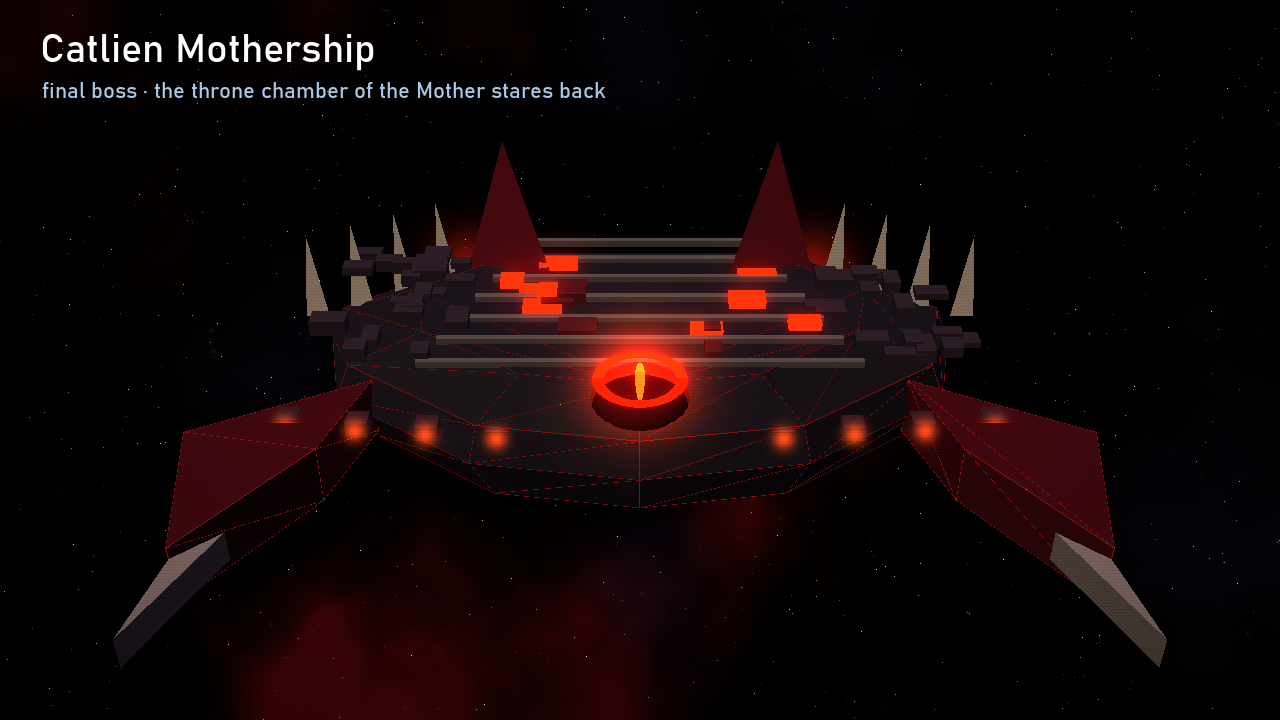
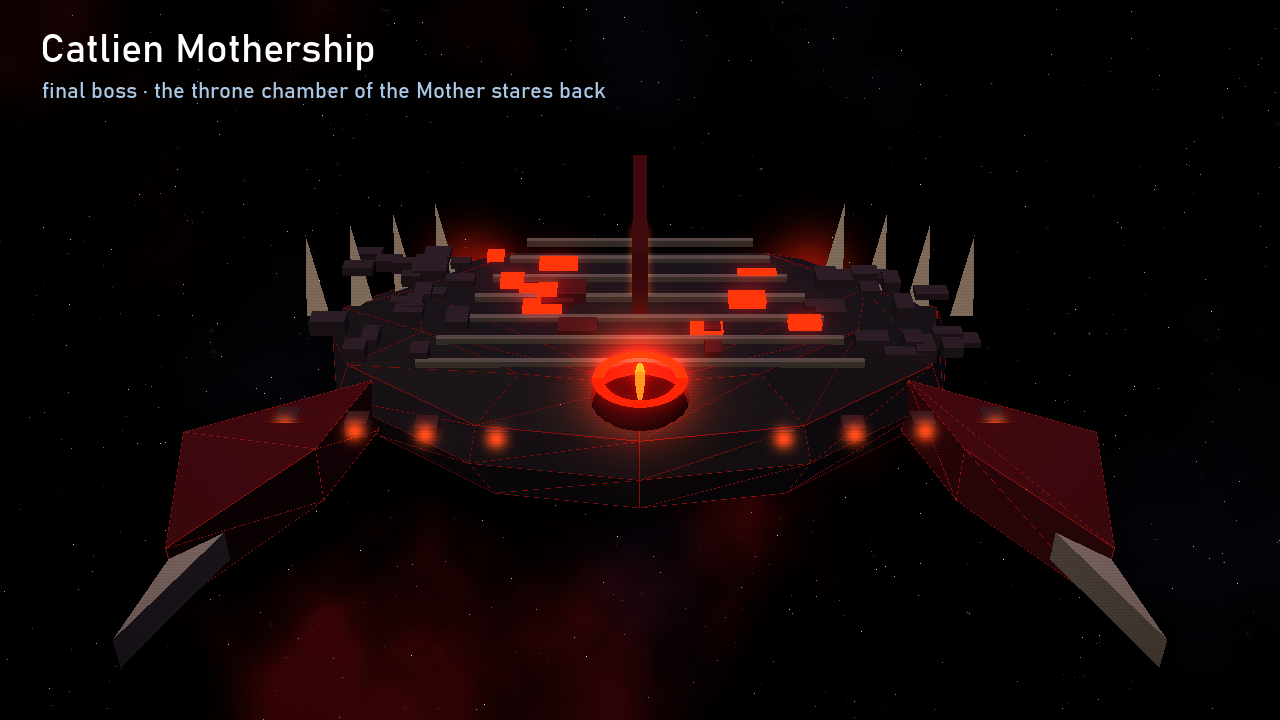
Refinement part 2

Changed region(s): [[0.4688, 0.2139, 0.5312, 0.4278], [0.5625, 0.2139, 0.6562, 0.3972], [0.3438, 0.2139, 0.4375, 0.3972]]

diff --git a/concept/web/index.html b/concept/web/index.html
@@ -84,7 +84,7 @@ svg text { font-family: var(--f-mono); }
 
 <div class="wrap">
 <header>
-  <div class="eyebrow">Concept · revision 2 · 2 November 2026 · before implementation</div>
+  <div class="eyebrow">Concept · revision 3 (final) · 2 November 2026 · ready for implementation</div>
   <h1>f<span class="ai">AI</span>ceCommander<span class="d3">3D</span></h1>
   <p class="lede">The face-gesture space shooter, rebuilt as a Python desktop game: real-time 3D in a grim retro low-poly style, seven levels to the Catlien mothership, adaptive drum &amp; bass, and a life-support helmet with an exposed brain laid over your webcam image.</p>
   <figure>
@@ -92,14 +92,16 @@ svg text { font-family: var(--f-mono); }
     <figcaption>In-game mockup, level 1. The 3D scene is real Panda3D output of the procedural models; HUD and webcam panel were composited for the mockup (webcam crop taken from your old screenshot).</figcaption>
   </figure>
   <div class="changes col">
-    <strong>Changed in this revision</strong>
+    <strong>Changed in revision 3</strong>
     <ul>
-      <li>Everything in English: game texts, voice, code and documentation.</li>
-      <li>The ship is now a boxy salvage gunship modelled on the 2D sprite, not a jet.</li>
-      <li>Catliens redesigned: dark, biomechanical warships with only a hint of a cat. The whole look is a notch creepier.</li>
-      <li>Standard laser fires one pulse per mouth opening.</li>
-      <li>Your answers are built in: constant thrust, Easy/Hard modes, outro plus endless mode, gory brain bursts, fullscreen.</li>
-      <li>One source file per level.</li>
+      <li>The ship has more detail: coolant hoses, a glowing life-support tank wired into the brain dome, an electronics rack with an LED matrix, radiator fins, cable bundles, a radar dish and antennas.</li>
+      <li>Catliens are less cat-like: no more ear-like fins or spires. The only hint left is the slanted slit sensors, and on the mothership the slit-pupil eye.</li>
+      <li>The webcam helmet now puts sunglasses over your eyes and a glowing cigar in the corner of your mouth.</li>
+      <li>All remaining questions are settled (see the end of the page).</li>
+    </ul>
+    <strong>Revision 2</strong>
+    <ul>
+      <li>Everything in English, a boxy ship modelled on the 2D sprite, darker Catliens, one laser pulse per mouth opening, Easy/Hard modes, outro plus endless mode, gory brain bursts, fullscreen, one source file per level.</li>
     </ul>
   </div>
 </header>
@@ -171,16 +173,16 @@ svg text { font-family: var(--f-mono); }
   <h2>Models and effects</h2>
   <div class="col"><p>Low-poly with hard flat shading, bloom and faint scanlines: retro but clean, a notch grim. Everything is generated in code. Human tech is patched-together, rusty orange salvage. Catliens are near-black biomech hulls with dried-blood plates, bone struts and ember-red slit sensors.</p></div>
   <div class="grid2">
-    <figure><img src="img/01_ship.webp" alt="The boxy orange FaceCommander ship with glass dome and brain, side pods, swept fins and yellow exhaust flames" width="1280" height="720" loading="lazy"><figcaption>FaceCommander. A beveled brick of a hull with a stepped prow, side pods and swept fins after the 2D sprite, three square exhausts with yellow flames. James' brain sits under the dome.</figcaption></figure>
-    <figure><img src="img/03_catlien_fighter.webp" alt="Catlien raider: black arrowhead hull with dark red swept wings, bone mandible guns and glowing ember slit sensors" width="1280" height="720" loading="lazy"><figcaption>Catlien raider (level 5). An abstract arrowhead warship. The cat is only hinted at: two small swept fins and slanted slit sensors. It fires from bone mandibles.</figcaption></figure>
-    <figure><img src="img/04_mothership.webp" alt="Catlien mothership: black crescent hull with forward claws, bone ribs, spikes and a red slit-pupil eye in the center" width="1280" height="720" loading="lazy"><figcaption>Mothership (level 7). A black crescent with forward claws and bone ribs. At the centre is the throne chamber, a slit-pupil eye that stares back.</figcaption></figure>
+    <figure><img src="img/01_ship.webp" alt="The boxy orange FaceCommander ship with glass dome and brain, side pods, swept fins and yellow exhaust flames" width="1280" height="720" loading="lazy"><figcaption>FaceCommander. A beveled brick of a hull with a stepped prow, side pods and swept fins after the 2D sprite, three square exhausts with yellow flames. James' brain sits under the dome, fed by a green life-support tank. Hoses, an LED electronics rack, radiator fins, a radar dish and a nuke rack cover the hull.</figcaption></figure>
+    <figure><img src="img/03_catlien_fighter.webp" alt="Catlien raider: black arrowhead hull with dark red swept wings, bone mandible guns and glowing ember slit sensors" width="1280" height="720" loading="lazy"><figcaption>Catlien raider (level 5). An abstract arrowhead warship with bone ribs, a tail spine and claw-tipped wings. Only the slanted slit sensors hint at a cat. It fires from bone mandibles.</figcaption></figure>
+    <figure><img src="img/04_mothership.webp" alt="Catlien mothership: black crescent hull with forward claws, bone ribs, spikes and a red slit-pupil eye in the center" width="1280" height="720" loading="lazy"><figcaption>Mothership (level 7). A black crescent with forward claws, bone ribs, rear spikes and a glowing dorsal spine. At the centre is the throne chamber, a slit-pupil eye that stares back.</figcaption></figure>
     <figure><img src="img/05_mothership_zones.webp" alt="Top view of the mothership with five damage zones marked" width="1280" height="720" loading="lazy"><figcaption>Damage zones as specified: 30 / 15 / 10 / 15 / 30 % of the width. Zone 3 is the eye.</figcaption></figure>
     <figure><img src="img/02_asteroids.webp" alt="Asteroids of category 1 and 2" width="1280" height="720" loading="lazy"><figcaption>Asteroids. Category 2 shows glowing fracture lines where it splits into up to three category 1 rocks.</figcaption></figure>
     <figure><img src="img/07_black_hole.webp" alt="Black hole with accretion disk" width="1280" height="720" loading="lazy"><figcaption>Black hole (level 6, artificial in level 7). The closer you get, the deeper and more muffled the music becomes.</figcaption></figure>
     <figure><img src="img/06_boltzmann_brain.webp" alt="Boltzmann brain with neuron sparks" width="1280" height="720" loading="lazy"><figcaption>Boltzmann brain (level 4). Forms out of nothing in a shower of sparks and decays after 1–3 s.</figcaption></figure>
     <figure><img src="img/12_brain_burst.webp" alt="Three stages: intact brain, brain bursting into chunks and blood, blood and brain matter splattered on the screen" width="1280" height="720" loading="lazy"><figcaption>Brain burst. A shot brain bursts into chunks and blood, and some of it splatters on the screen glass. It drips and fades after about 3 s.</figcaption></figure>
     <figure><img src="img/08_explosion.webp" alt="Explosion in three stages" width="1280" height="720" loading="lazy"><figcaption>Explosion in three stages. The bang plays only when the shockwave ring reaches your ship.</figcaption></figure>
-    <figure><img src="img/09_helmet.webp" alt="AR helmet with brain under a glass dome, LED head band, tubes and collar, on a holographic head" width="1280" height="720" loading="lazy"><figcaption>The AR helmet from the story: brain under glass, head band with status LEDs, tubes to the ear pods, collar.</figcaption></figure>
+    <figure><img src="img/09_helmet.webp" alt="AR helmet with brain under a glass dome, LED head band, tubes and collar, on a holographic head" width="1280" height="720" loading="lazy"><figcaption>The AR helmet from the story: brain under glass, head band with status LEDs, tubes to the ear pods, collar. Sunglasses over the eyes and a smoking cigar in the corner of the mouth.</figcaption></figure>
   </div>
   <h3>Level 4 mockup</h3>
   <figure><img class="hero-img" src="img/13_ingame_level4.webp" alt="In-game mockup of level 4: pitch-black void, floating brains, one bursting, blood and brain matter splattered across the right side of the screen" width="1280" height="970" loading="lazy"><figcaption>The void: no stars, only brains. Shooting one close by smears your view for a few seconds, so it is a risk as well as a reward.</figcaption></figure>
@@ -194,7 +196,7 @@ svg text { font-family: var(--f-mono); }
   <h2>AR helmet instead of coloured dots</h2>
   <div class="col">
     <p>The helmet is a 3D model. MediaPipe delivers the head's transformation matrix for every webcam frame, and Panda3D renders the helmet in exactly that pose over the mirrored camera image. When you tilt or turn your head, the helmet moves with it.</p>
-    <p>The face stays uncovered, so you recognise yourself and can see the mouth and eye detection working. The status LEDs on the head band show live what is detected: mouth open, eyes closed, weapon switch.</p>
+    <p>Instead of coloured dots, the landmarks anchor two props: <strong>sunglasses</strong> sit on your eyes and a <strong>cigar</strong> hangs in the corner of your mouth. Both follow your head pose. When you open your mouth to fire, the cigar drops with your jaw and its tip flares; when you close your eyes, the lenses fade from black to a faint violet glow so you can see that the hypno protection is active. The status LEDs on the head band also show what is detected: mouth open, eyes closed, weapon switch.</p>
     <p>The game runs <strong>fullscreen</strong> by default. The 16:9 play area sits on top and the webcam panel below it, as in the original, next to the control gauges and the current track. F11 switches to windowed mode, and the webcam panel can be hidden.</p>
   </div>
 </section>
@@ -312,16 +314,17 @@ svg text { font-family: var(--f-mono); }
 </section>
 
 <section>
-  <div class="eyebrow">Last open points</div>
-  <h2>Remaining questions</h2>
-  <div class="col"><p>Each one has my proposal. "OK" is enough if it fits.</p></div>
+  <div class="eyebrow">Settled</div>
+  <h2>Final decisions</h2>
   <ol class="q col">
-    <li>Should thrust stop only for the mothership, or also in level 5 with the raiders?<span class="def">Proposal: <b>only for the mothership</b>. In level 5 the starfield keeps scrolling and the raiders hold position on screen.</span></li>
-    <li>Should Easy differ only in the restart, or also be a bit more forgiving?<span class="def">Proposal: <b>restart only</b>; the difficulty stays identical.</span></li>
-    <li>Do the outro idea and endless mode work for you?<span class="def">Proposal: <b>as described above</b>.</span></li>
-    <li>Should brain splatter briefly obscure your view, as a risk when shooting brains up close?<span class="def">Proposal: <b>yes</b>, about 3 s, only when the brain bursts close to the ship.</span></li>
-    <li>Voice for narrator and AI scientists?<span class="def">Proposal: <b>Piper TTS</b>, a deep male narrator voice plus a filtered, synthetic-sounding voice for the scientists.</span></li>
+    <li>Thrust stops only for the mothership.<span class="def">In level 5 the starfield keeps scrolling and the raiders hold position on screen.</span></li>
+    <li>Easy and Hard differ only in the restart point.<span class="def">The difficulty stays identical.</span></li>
+    <li>The outro and endless mode stay as described above.</li>
+    <li>Brain splatter obscures the view for about 3 s.<span class="def">This only happens when a brain bursts close to the ship.</span></li>
+    <li>Voices come from Piper TTS.<span class="def">A deep male narrator plus a filtered, synthetic-sounding voice for the AI scientists.</span></li>
+    <li>The helmet overlay uses sunglasses and a cigar instead of landmark dots.</li>
   </ol>
+  <div class="col"><p><strong>Next:</strong> milestone 1, with face controls and calibration, level 1 playable, HUD, webcam panel with helmet, and fullscreen.</p></div>
 </section>
 </div>
 

diff --git a/concept/models.py b/concept/models.py
@@ -7,7 +7,7 @@ import math
 
 import numpy as np
 from panda3d.core import (
-    ColorBlendAttrib, CardMaker, Geom, GeomNode, GeomTriangles, GeomVertexData,
+    ColorBlendAttrib, CardMaker, Point3, Geom, GeomNode, GeomTriangles, GeomVertexData,
     GeomVertexFormat, GeomVertexWriter, NodePath, PNMImage, Texture, TransparencyAttrib,
 )
 
@@ -377,6 +377,52 @@ def build_ship(parent):
     Vb, Fb = box(0.03, 0.03, 0.6)
     part(root, Vb, Fb, DARK, pos=(-0.35, -1.0, 0.62))
     part(root, icosphere(0)[0] * 0.05, icosphere(0)[1], (1, 0.2, 0.1), pos=(-0.35, -1.0, 0.93), unlit=True)
+    # --- greebles: hoses, electronics, life support ---
+    Vi, Fi = icosphere(1)
+    # coolant hoses from the hull into the pods (rubber with hazard bands) and one glowing coolant line
+    for sgn in (1, -1):
+        for j, (y0, y1) in enumerate(((0.45, 0.25), (-0.35, -0.6))):
+            tube(root, [(sgn * 0.5, y0, 0.22), (sgn * 0.68, y0 - 0.05, 0.42), (sgn * 0.85, y1, 0.38),
+                        (sgn * 0.88, y1 - 0.1, 0.17)], 0.05, (0.12, 0.12, 0.13), n=12,
+                 band=(0.95, 0.75, 0.1))
+        tube(root, [(sgn * 0.42, -0.95, 0.3), (sgn * 0.62, -1.1, 0.5), (sgn * 0.8, -1.05, 0.38),
+                    (sgn * 0.88, -0.95, 0.17)], 0.045, (0.35, 1.0, 0.45, 0.65), n=12, glowing=True)
+        # heat radiator fins on the pod flanks
+        for k in range(6):
+            Vb, Fb = box(0.03, 0.08, 0.36)
+            part(root, Vb, Fb, (0.22, 0.23, 0.26), pos=(sgn * 1.1, -0.85 + k * 0.13, -0.08))
+        # cable bundle along the hull edge
+        for k in range(3):
+            Vb, Fb = box(0.025, 1.8, 0.025)
+            part(root, Vb, Fb, ((0.7, 0.1, 0.1), (0.1, 0.3, 0.7), (0.15, 0.15, 0.15))[k],
+                 pos=(sgn * (0.6 + k * 0.025), -0.2, 0.21 + k * 0.02))
+    # life-support unit behind the dome: green fluid tank, pump box, tubes into the dome
+    Vt, Ft = lathe([(0.0, 0.0), (0.13, 0.02), (0.13, 0.42), (0.0, 0.44)], 10, "y")
+    part(root, Vt, Ft, (0.35, 1.0, 0.45, 0.55), pos=(0.0, -0.55, 0.47), unlit=True, alpha=True, orient="y")
+    glow(root, (0.0, -0.33, 0.47), 0.5, (0.35, 1.0, 0.45, 0.6))
+    for y in (-0.56, -0.1):
+        Vr, Fr = lathe([(0.15, 0.0), (0.15, 0.04)], 10, "y")
+        part(root, Vr, Fr, DARK, pos=(0.0, y, 0.47), orient="y")
+    Vb, Fb = box(0.32, 0.25, 0.18)
+    part(root, Vb, Fb, (0.3, 0.31, 0.34), pos=(0.0, -0.8, 0.43))
+    for sgn in (1, -1):
+        tube(root, [(sgn * 0.08, -0.12, 0.5), (sgn * 0.2, 0.0, 0.62), (sgn * 0.3, 0.12, 0.55),
+                    (sgn * 0.3, 0.2, 0.42)], 0.035, (0.2, 0.2, 0.22), n=10)
+    # electronics rack with blinking LED matrix
+    Vb, Fb = box(0.4, 0.3, 0.12)
+    part(root, Vb, Fb, (0.17, 0.18, 0.2), pos=(0.3, -1.05, 0.4))
+    rng = np.random.default_rng(3)
+    for ix in range(5):
+        for iy in range(3):
+            col = ((0.3, 1.0, 0.3), (1.0, 0.25, 0.15), (0.3, 0.7, 1.0), (1.0, 0.8, 0.2))[rng.integers(4)]
+            part(root, Vi * 0.018, Fi, col, pos=(0.17 + ix * 0.065, -1.14 + iy * 0.08, 0.465), unlit=True)
+    # radar dish and antenna array
+    Vd, Fd = lathe([(0.0, 0.0), (0.16, 0.06), (0.2, 0.1)], 10, "z")
+    part(root, Vd, Fd, (0.55, 0.56, 0.58), pos=(-0.32, 0.75, 0.42), hpr=(30, 35, 0), orient=None, two_sided=True)
+    part(root, Vi * 0.025, Fi, (1, 0.3, 0.2), pos=(-0.3, 0.73, 0.48), unlit=True)
+    for k in range(3):
+        Vb, Fb = box(0.015, 0.015, 0.3 + k * 0.12)
+        part(root, Vb, Fb, DARK, pos=(-0.2 - k * 0.06, -1.15, 0.5 + k * 0.06))
     # three square exhausts with yellow-white flames (2D original had yellow flames)
     for x in (-0.3, 0.0, 0.3):
         Vb, Fb = box(0.24, 0.12, 0.24)
@@ -414,7 +460,7 @@ def _slit(root, pos, length, width=0.05, color=EMBER, yaw=0.0, glow_size=None):
 
 
 def build_fighter(parent):
-    """Catlien raider: an abstract arrowhead warship; only the swept 'ears' and slit eyes hint at a cat."""
+    """Catlien raider: an abstract arrowhead warship; only the slanted slit sensors hint at a cat."""
     root = parent.attachNewNode("fighter")
     outline = [(0, -1.55), (0.32, -0.75), (0.52, 0.35), (0.34, 1.0), (-0.34, 1.0), (-0.52, 0.35), (-0.32, -0.75)]
     V, F = loft(outline, [(0.75, -0.18), (1.0, 0.0), (0.7, 0.2), (0.32, 0.32)])
@@ -429,9 +475,6 @@ def build_fighter(parent):
         hook = [(sgn * 1.5, 0.75), (sgn * 1.85, 0.55), (sgn * 1.65, 0.4)]
         Vh, Fh = prism(hook if sgn > 0 else hook[::-1], 0.06)
         part(root, Vh, Fh, BONE)
-        # small back-swept dorsal fins - the only "ears"
-        Vp, Fp = pyramid([(sgn * 0.12, 0.45), (sgn * 0.36, 0.55), (sgn * 0.22, 0.95)], (sgn * 0.3, 1.05, 0.62))
-        part(root, Vp, Fp, BLOOD)
         # mandible gun prongs reaching forward
         Vm, Fm = lathe([(0.05, 0.0), (0.035, -0.75), (0.0, -0.95)], 5, "y")
         part(root, Vm, Fm, BONE, pos=(sgn * 0.3, -0.75, -0.06), hpr=(-sgn * 6, 0, 0), orient="y")
@@ -446,6 +489,9 @@ def build_fighter(parent):
     for k in range(5):
         Vr, Fr = box(0.5 - k * 0.05, 0.05, 0.05)
         part(root, Vr, Fr, BONE, pos=(0, -0.1 + k * 0.2, 0.3 - k * 0.01))
+    # single tail spine, lying flat
+    Vq, Fq = lathe([(0.05, 0.0), (0.0, 0.9)], 5, "y")
+    part(root, Vq, Fq, BONE, pos=(0, 0.95, 0.02), orient="y")
     return root
 
 
@@ -456,7 +502,7 @@ def mothership_layout(width=14.0):
 
 
 def build_mothership(parent, width=14.0):
-    """The Mother's dreadnought: a black crescent with forward claws, bone spines and a slit-pupil eye."""
+    """The Mother's dreadnought: a black crescent with forward claws, a dorsal spine and a slit-pupil eye."""
     root = parent.attachNewNode("mothership")
     s = width / 2
     outline = [(0, -0.36), (0.38, -0.3), (0.72, -0.05), (0.78, 0.22), (0.45, 0.48), (-0.45, 0.48),
@@ -476,9 +522,6 @@ def build_mothership(parent, width=14.0):
         tip = [(sgn * 0.93 * s, -0.68 * s), (sgn * 0.97 * s, -0.9 * s), (sgn * 0.84 * s, -0.6 * s)]
         Vt, Ft = loft(tip if sgn > 0 else tip[::-1], [(1, -0.3), (1, 0.2)])
         part(root, Vt, Ft, BONE)
-        # two back-swept spires: a faint memory of ears
-        Vp, Fp = pyramid([(sgn * 1.5, 1.5), (sgn * 3.0, 1.9), (sgn * 2.0, 3.1)], (sgn * 2.5, 3.9, 1.5))
-        part(root, Vp, Fp, BLOOD, pos=(0, 0, 1.0))
         for k in range(4):  # spikes along the rear edge
             x = sgn * (3.4 + k * 0.7)
             Vk, Fk = pyramid([(x - 0.2, 2.0 - k * 0.35), (x + 0.2, 2.0 - k * 0.35), (x, 2.35 - k * 0.35)],
@@ -508,6 +551,11 @@ def build_mothership(parent, width=14.0):
             part(root, Vb, Fb, (0.9, 0.22, 0.05), pos=(x, y, 1.05), unlit=True)
         else:
             part(root, Vb, Fb, (0.2, 0.06, 0.07), pos=(x, y, 1.1))
+    # dorsal spine along the rear
+    Vd, Fd = prism([(0.0, 0.2), (0.0, 3.4), (1.6, 3.0), (1.0, 0.6)], 0.25)
+    part(root, Vd[:, [2, 1, 0]], Fd, BLOOD, pos=(0, 0, 1.05))
+    for k in range(5):
+        glow(root, (0, 0.8 + k * 0.5, 1.2), 0.35, (*EMBER, 0.7))
     # throne chamber of "the Mother" (zone 3): a dark lens with a vertical slit pupil
     Vh, Fh = hemisphere(3)
     part(root, Vh * np.array([0.75, 0.8, 0.42]), Fh, (0.16, 0.02, 0.02), pos=(0, -2.0, 0.95))
@@ -613,11 +661,14 @@ def build_hypno_rings(parent, center, radii, width=0.9):
     return root
 
 
+EYE_Z, MOUTH_Z = -0.3, -1.05  # helmet-local eye and mouth height (used for webcam alignment)
+
+
 def build_helmet(parent):
     """AR overlay: life-support helmet with an exposed brain under a glass dome.
 
     Head-local coordinates: head centre at origin, head half-width ~1, face looks along -Y,
-    brow at z~0.35, chin at z~-1.35.
+    eyes at EYE_Z, mouth at MOUTH_Z, chin at z~-1.6.
     """
     root = parent.attachNewNode("helmet")
     build_brain(root, 0.68, aura=False).setPos(0, 0.12, 0.95)
@@ -664,7 +715,50 @@ def build_helmet(parent):
         Vv, Fv = box(0.18, 0.04, 0.08)
         part(root, Vv, Fv, (1, 0.5, 0.1), pos=(1.2 * math.cos(a), 1.2 * math.sin(a), -1.8),
              hpr=(math.degrees(a) + 90, 0, 0), unlit=True)
+    # sunglasses over the eyes
+    lens = [(-0.21, 0.08), (0.2, 0.1), (0.25, -0.01), (0.14, -0.13), (-0.13, -0.14), (-0.24, -0.04)]
+    Vl, Fl = prism(lens, 0.035)
+    Vl = Vl[:, [0, 2, 1]]
+    for sgn in (1, -1):
+        part(root, Vl * np.array([sgn, 1, 1]), Fl, (0.03, 0.03, 0.04), pos=(sgn * 0.33, -0.98, EYE_Z))
+        Vh2, Fh2 = box(0.12, 0.01, 0.025)
+        part(root, Vh2, Fh2, (0.8, 0.85, 0.95, 0.7), pos=(sgn * 0.33 - 0.06, -1.0, EYE_Z + 0.04),
+             hpr=(0, 0, 25), unlit=True, alpha=True)
+        Vb, Fb = box(0.52, 0.03, 0.035)
+        part(root, Vb, Fb, (0.75, 0.6, 0.25), pos=(sgn * 0.33, -0.985, EYE_Z + 0.1))
+        Va, Fa = box(0.03, 1.0, 0.03)
+        part(root, Va, Fa, (0.75, 0.6, 0.25), pos=(sgn * 0.6, -0.5, EYE_Z + 0.08), hpr=(sgn * 8, 0, 0))
+    Vb, Fb = box(0.16, 0.03, 0.03)
+    part(root, Vb, Fb, (0.75, 0.6, 0.25), pos=(0, -0.99, EYE_Z + 0.06))
+    # cigar in the corner of the mouth, glowing tip and a wisp of smoke
+    cig = root.attachNewNode("cigar")
+    Vc, Fc = lathe([(0.0, 0.0), (0.06, -0.02), (0.075, -0.15), (0.075, -0.62), (0.07, -0.7)], 8, "y")
+    part(cig, Vc, Fc, (0.42, 0.25, 0.11), orient="y")
+    Vr, Fr = lathe([(0.079, -0.12), (0.079, -0.2)], 8, "y")
+    part(cig, Vr, Fr, (0.85, 0.65, 0.15), orient="y")
+    Vt, Ft = lathe([(0.072, -0.7), (0.06, -0.74), (0.0, -0.76)], 8, "y")
+    part(cig, Vt, Ft, (1.0, 0.4, 0.05), orient="y", unlit=True)
+    glow(cig, (0, -0.74, 0), 0.25, (1.0, 0.45, 0.1, 0.9))
+    cig.setPos(0.14, -0.96, MOUTH_Z)
+    cig.setHpr(28, -10, 0)
+    rng = np.random.default_rng(8)
+    tip = root.getRelativePoint(cig, Point3(0, -0.76, 0))
+    for k in range(7):
+        p = (tip[0] + 0.06 * k + rng.uniform(-0.05, 0.05), tip[1] - 0.02 * k, tip[2] + 0.12 + 0.17 * k)
+        glow(root, p, 0.18 + 0.07 * k, (0.75, 0.75, 0.8, 0.22 - 0.025 * k))
     return root
+
+
+def tube(root, ctrl, radius, color, n=12, band=None, glowing=False):
+    """Hose along a cubic bezier, built from overlapping low-poly beads."""
+    Vi, Fi = icosphere(1)
+    color = _rgba(color)
+    for k, p in enumerate(_bezier(ctrl, n)):
+        col = band if (band is not None and k % 4 == 2) else color
+        part(root, Vi * radius, Fi, col, pos=tuple(p), unlit=glowing, alpha=color[3] < 1)
+    if glowing:
+        for p in _bezier(ctrl, 4):
+            glow(root, tuple(p), radius * 5, (color[0], color[1], color[2], 0.5))
 
 
 def _bezier(ctrl, n):

diff --git a/concept/render_concept.py b/concept/render_concept.py
@@ -175,7 +175,7 @@ def shot_ship():
         s.setHpr(25, 0, -12)
     fg, _ = render(build, (-5.5, -8.5, 5.0), (0, -0.2, 0), fov=40)
     img = finish(fg, background(2))
-    save(caption(img, "FaceCommander", "boxy salvage gunship · brain under a glass dome · twin lasers · nukes"),
+    save(caption(img, "FaceCommander", "boxy salvage gunship · life-support tank · hoses · electronics · nukes"),
          "01_ship.png")
 
 
@@ -209,7 +209,7 @@ def shot_fighter():
         M.build_laser_bolt(lb, (0.2, -3.2, 0.05), color=(1.0, 0.25, 0.3), length=0.7)
     fg, _ = render(build, (1.5, -6.5, 7.5), (0, -0.1, 0), fov=40)
     img = finish(fg, background(4, tint=(0.4, 0.04, 0.05), tint2=(0.08, 0.05, 0.12)))
-    save(caption(img, "Catlien Raider", "biomech arrowhead · bone mandible guns · ember slit sensors · swept fins"),
+    save(caption(img, "Catlien Raider", "biomech arrowhead · bone mandible guns · ember slit sensors"),
          "03_catlien_fighter.png")
 
 
@@ -299,44 +299,57 @@ def shot_helmet():
         M.neon_edges(head, (0.3, 0.9, 1.0, 0.5), 1.0)
     fg, _ = render(build, (0, -10.5, 0.2), (0, 0, -0.25), fov=40)
     img = finish(fg, background(9, nebula=0.6))
-    save(caption(img, "AR Helmet (webcam overlay)", "life-support helmet · exposed brain under glass · tubes · status LEDs"),
+    save(caption(img, "AR Helmet (webcam overlay)", "exposed brain under glass · status LEDs · sunglasses · cigar"),
          "09_helmet.png")
 
 
-def helmet_layer(size, yaw=0.0, roll=0.0):
-    """Renders only the helmet with transparent background (for the webcam overlay)."""
+def helmet_layer(yaw=0.0, roll=0.0):
+    """Renders only the helmet with transparent background (for the webcam overlay).
+
+    Returns the cropped RGBA image plus the pixel positions of the eye midpoint and the mouth in it,
+    which is what the game does with MediaPipe's head pose: put the helmet's eyes onto the player's.
+    """
     def build(r):
         h = M.build_helmet(r)
         h.setHpr(yaw, 0, roll)
-    fg, _ = render(build, (0, -9.0, 0.0), (0, 0, -0.1), fov=30)
+        return {"eyes": base.render.getRelativePoint(h, Point3(0, -1.0, M.EYE_Z)),
+                "mouth": base.render.getRelativePoint(h, Point3(0, -1.0, M.MOUTH_Z))}
+    fg, anchors = render(build, (0, -9.0, 0.0), (0, 0, -0.1), fov=30)
     rgb = fg[..., :3]
     a = np.clip(fg[..., 3:4] + rgb.max(-1, keepdims=True) * 0.6, 0, 1)
     un = np.where(a > 1e-3, rgb / np.maximum(a, 1e-3), 0)
     im = Image.fromarray(np.uint8(np.clip(np.concatenate([un, a], -1), 0, 1) * 255), "RGBA")
-    bbox = im.getbbox()
-    return im.crop(bbox).resize(size, Image.LANCZOS) if size else im.crop(bbox)
+    x0, y0, x1, y1 = im.getbbox()
+    shift = lambda p: (p[0] - x0, p[1] - y0)
+    return im.crop((x0, y0, x1, y1)), shift(anchors["eyes"]), shift(anchors["mouth"])
 
 
 def webcam_panel(w, h, roll=0.0):
+    import cv2
     src = Image.open(os.path.join(HERE, "..", "prompts", "screenshots", "FacecCommander_Screenshot_Ingame.png")).convert("RGB")
     cam = src.crop((292, 672, 532, 806))  # webcam area of the 2D original
-    face_cx, face_eye_y, face_w = 412 - 292, 737 - 672, 38  # rough face geometry in that crop
+    eyes, mouth = (115.5, 65.0), (115.0, 81.0)  # positions of the old landmark dots in that crop
+    # remove the old coloured landmark dots
+    arr = np.asarray(cam).copy()
+    hsv = cv2.cvtColor(arr, cv2.COLOR_RGB2HSV)
+    mask = ((hsv[..., 1] > 140) & (hsv[..., 2] > 120)).astype(np.uint8) * 255
+    mask[:, :80] = 0
+    mask[:, 160:] = 0
+    mask = cv2.dilate(mask, np.ones((3, 3), np.uint8))
+    cam = Image.fromarray(cv2.inpaint(arr, mask, 3, cv2.INPAINT_TELEA))
     s = h / cam.height
     cam = cam.resize((int(cam.width * s), h), Image.LANCZOS).filter(ImageFilter.SMOOTH)
     # cyberpunk grade
     arr = np.asarray(cam, float) / 255
     lum = arr.mean(-1, keepdims=True)
     arr = np.clip(lum * np.array([0.55, 0.95, 1.0]) * 1.1 + arr * 0.25, 0, 1)
-    cam = Image.fromarray(np.uint8(arr * 255))
-    hw = int(face_w * s * 2.2)
-    helm = helmet_layer(None, roll=roll)
-    hh = int(helm.height * hw / helm.width)
-    helm = helm.resize((hw, hh), Image.LANCZOS)
-    # helmet head-band sits at the brow; brow is ~0.62 of the helmet height from its top in the render
-    hx = int(face_cx * s - hw / 2)
-    hy = int(face_eye_y * s - hh * 0.5)
-    cam = cam.convert("RGBA")
-    cam.alpha_composite(helm, (max(hx, 0), max(hy, 0)))
+    cam = Image.fromarray(np.uint8(arr * 255)).convert("RGBA")
+    helm, h_eyes, h_mouth = helmet_layer(roll=roll)
+    k = (mouth[1] - eyes[1]) * s / (h_mouth[1] - h_eyes[1])
+    helm = helm.resize((int(helm.width * k), int(helm.height * k)), Image.LANCZOS)
+    layer = Image.new("RGBA", cam.size, (0, 0, 0, 0))
+    layer.paste(helm, (int(eyes[0] * s - h_eyes[0] * k), int(eyes[1] * s - h_eyes[1] * k)), helm)
+    cam = Image.alpha_composite(cam, layer)
     panel = Image.new("RGB", (w, h), (10, 12, 18))
     panel.paste(cam.convert("RGB"), ((w - cam.width) // 2, 0))
     return panel, (w - cam.width) // 2, cam.width
